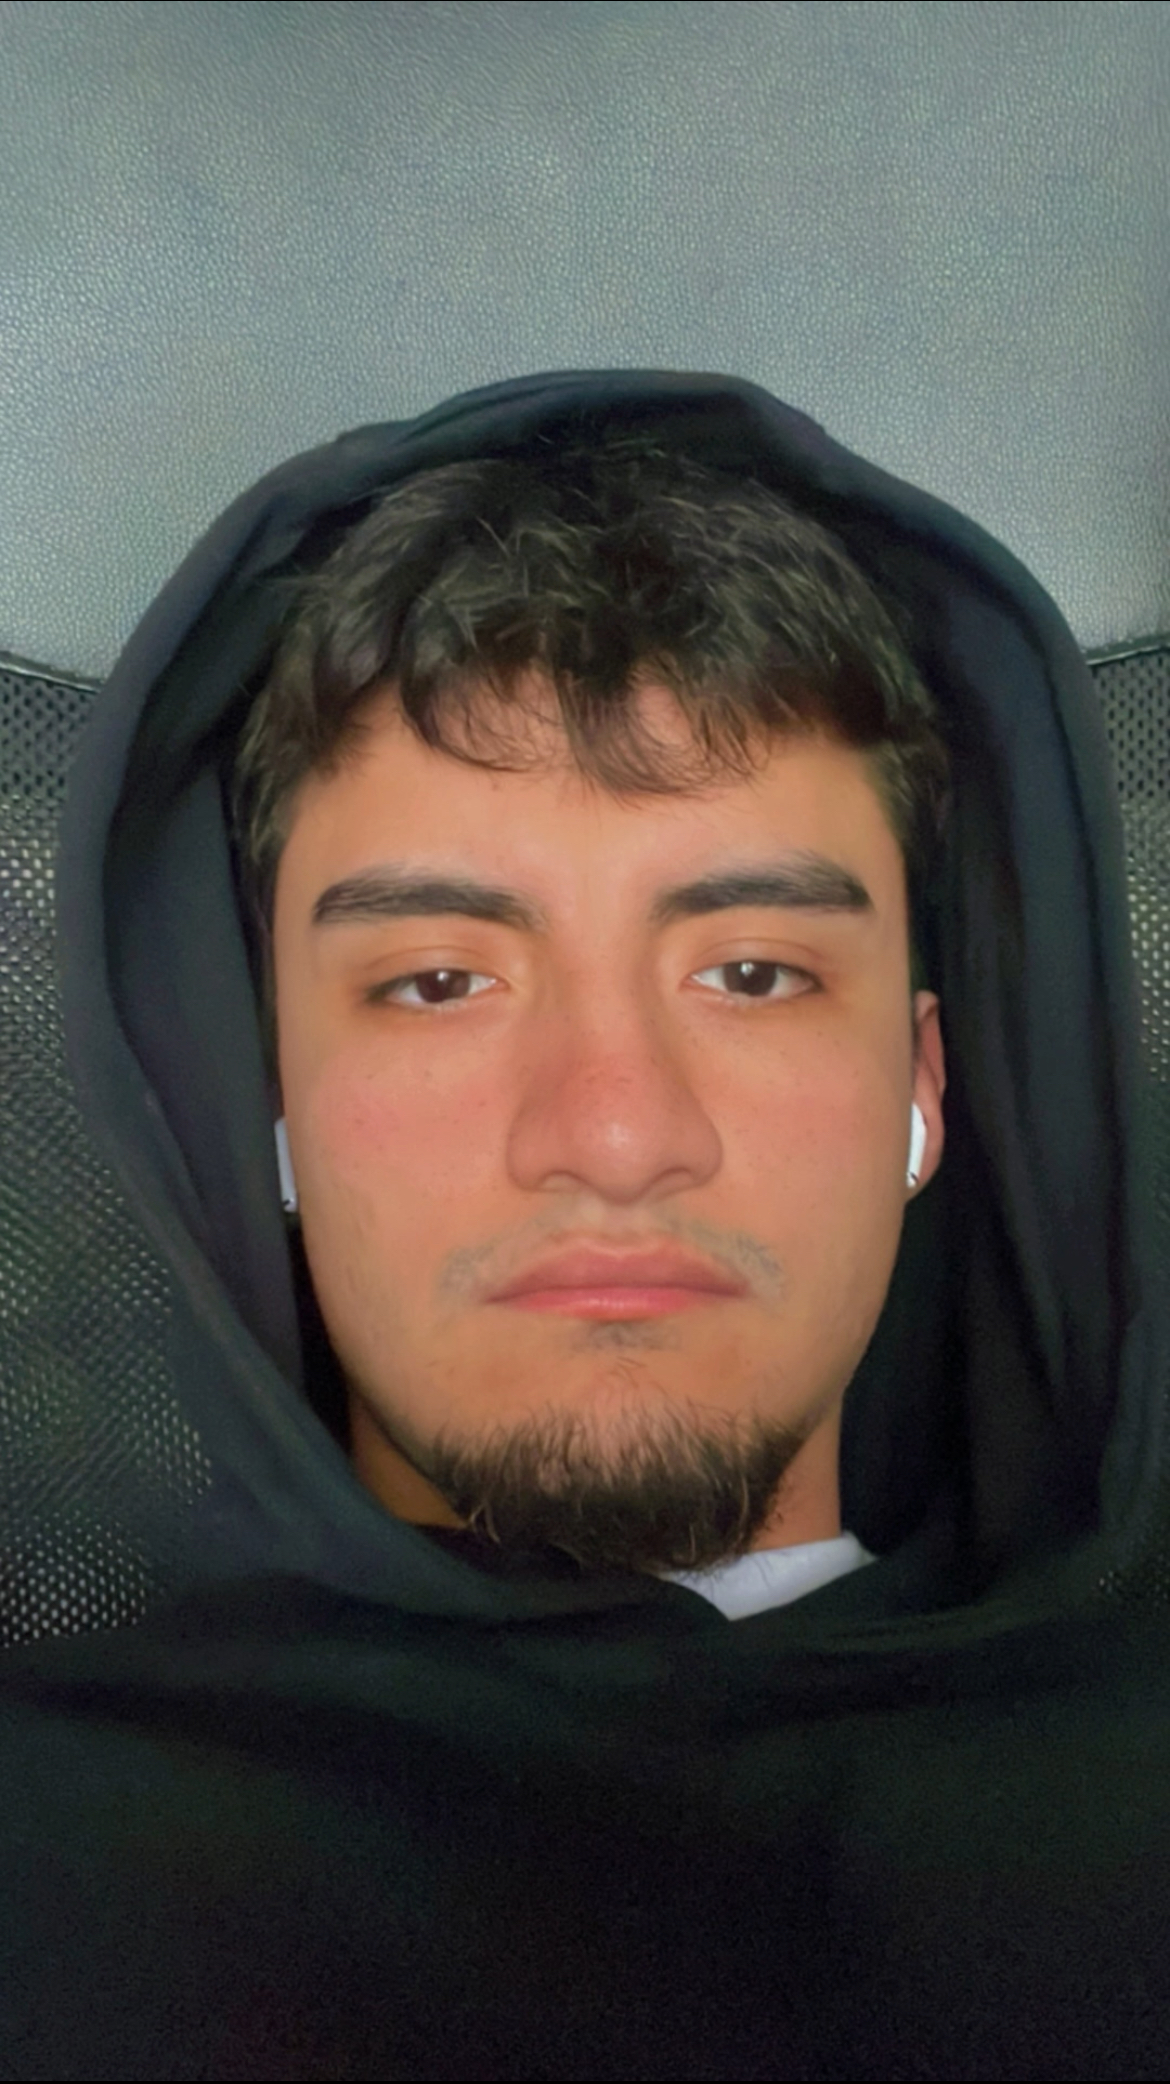
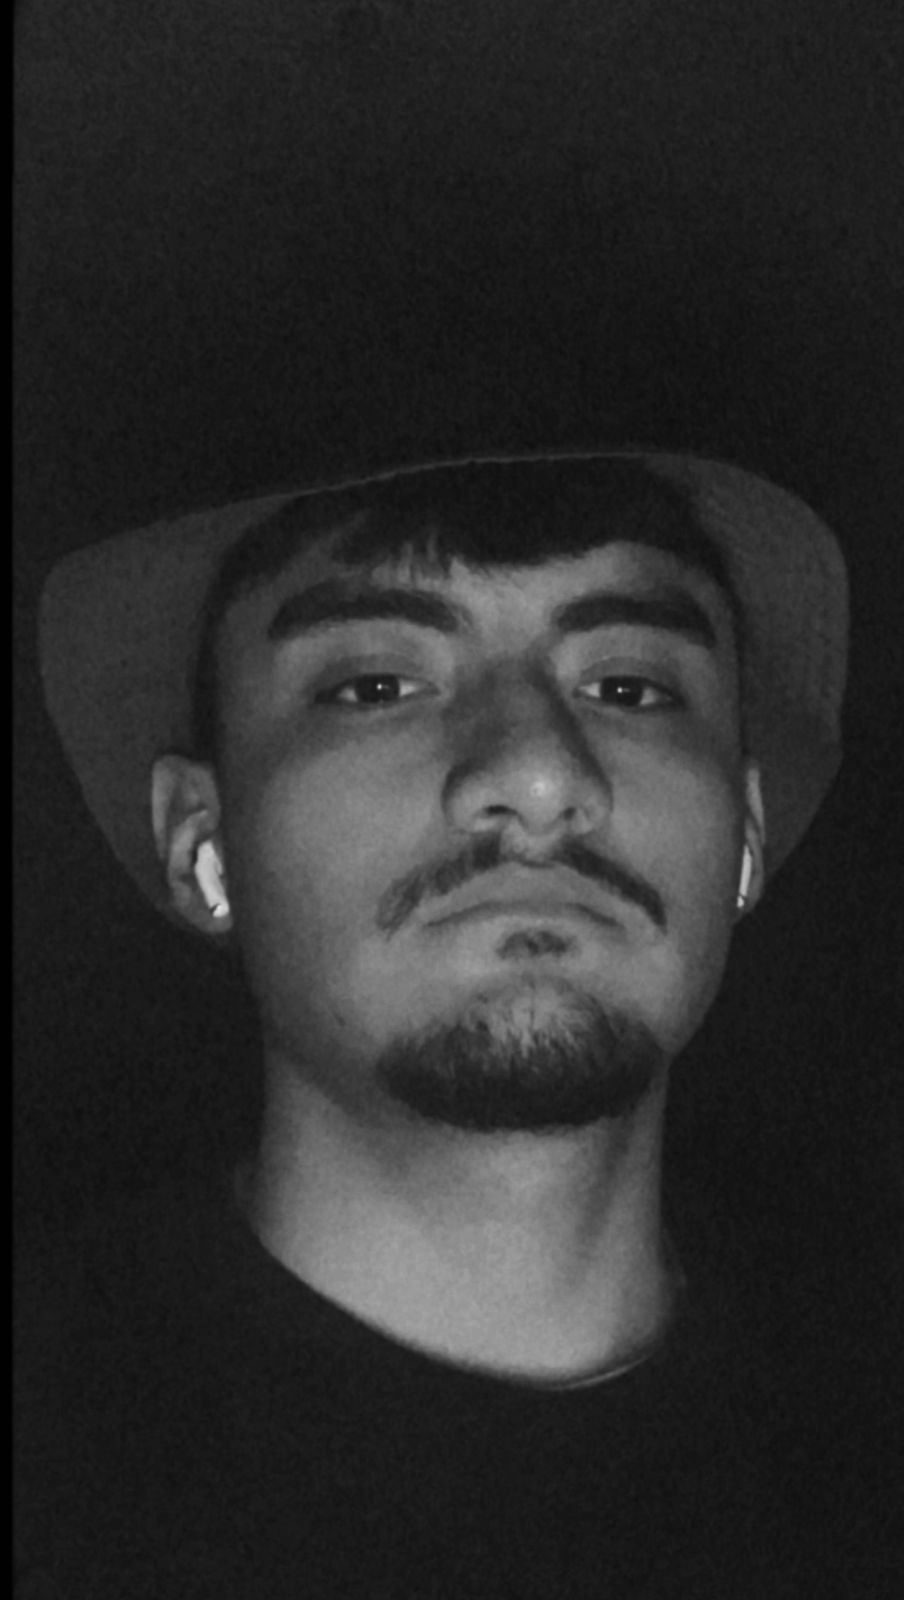
new profile pic

diff --git a/js/translations.js b/js/translations.js
@@ -72,8 +72,7 @@ const translations = {
     "project8.title": "RFQ Response Generator",
     "project8.description":
       "Sistema impulsado por IA que genera automáticamente respuestas completas a RFQs (Request for Quote) gubernamentales. Transforma horas de análisis manual y llenado de formularios en un proceso de un click. Analiza contratos federales, evalúa capacidades empresariales y genera propuestas técnicas completas con documentación de cumplimiento.",
-
-
+    
     "projects.code": "Código",
     "projects.demo": "Demo",
 
@@ -208,8 +207,7 @@ const translations = {
     "project7.description": "No caption.",
 
     "project8.title": "RFQ Response Generator",
-    "project8.description":
-      "AI-powered system that automatically generates complete responses to government RFQs (Request for Quote). Transforms hours of manual analysis and form filling into a one-click process. Analyzes federal contracts, evaluates business capabilities, and generates complete technical proposals with compliance documentation.",
+    "project8.description":"AI-powered system that automatically generates complete responses to government RFQs (Request for Quote). Transforms hours of manual analysis and form filling into a one-click process. Analyzes federal contracts, evaluates business capabilities, and generates complete technical proposals with compliance documentation.",
 
     "projects.code": "Code",
     "projects.demo": "Demo",
